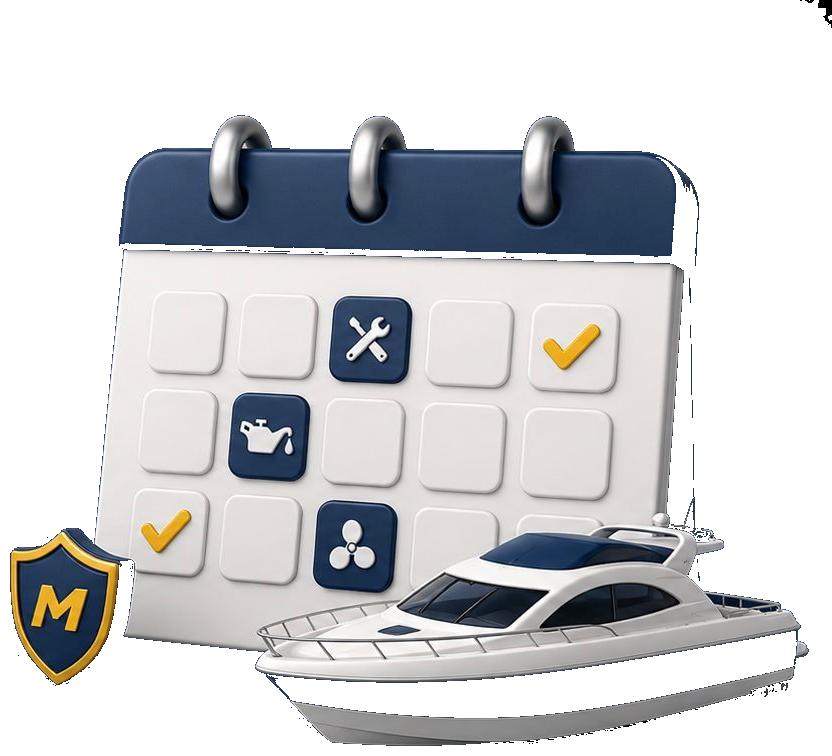
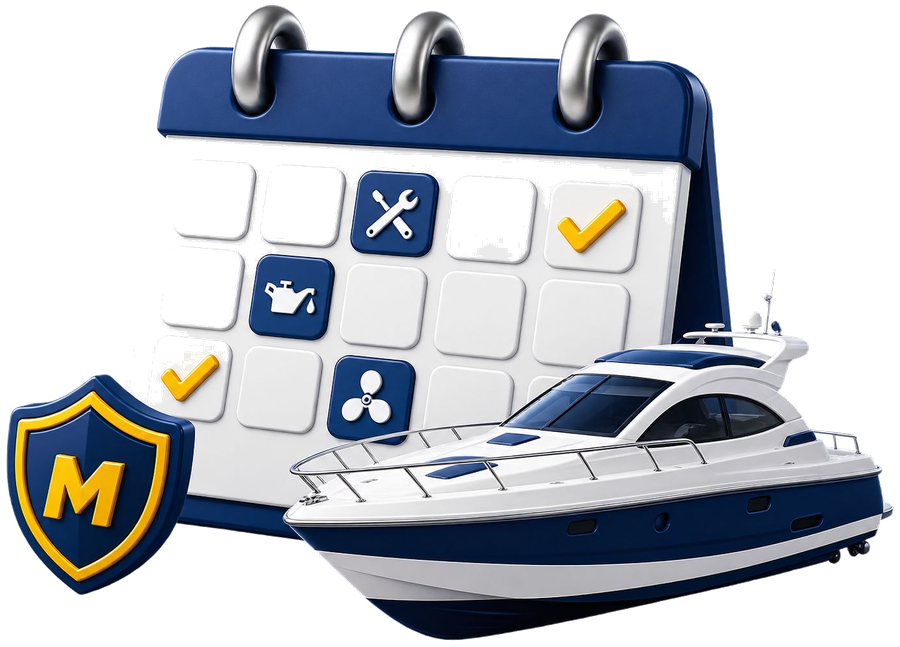
Bakım takvimi kartını 1. sıraya al, üstüne canlı tik işaretleme animasyonu ekle
Yeni gönderilen (temiz, şeffaf kesilmiş) takvim+tekne+kalkan görseli
kullanıldı; kampanya kartları sırası artık Bakım Takvimi ile başlıyor.
Takvimin üst sırasındaki 3 boş hücreye sırayla (staggered) yeşil tik
işaretleri "işleniyor" gibi beliriyor, bir süre ekranda kalıp birlikte
sönüyor ve döngü tekrar başlıyor — takvime iş kaydedilmesini simüle
ediyor.

Claude-Session: https://claude.ai/code/session_01XStbwL6Vr4wVqGDLyMLQ5F

diff --git a/src/screens/home/HomeScreen.tsx b/src/screens/home/HomeScreen.tsx
@@ -48,6 +48,9 @@ const QUICK_ACTION_ICON = {
  * kaynak gorsele gore oranli (0-1) konum/boyut. */
 type PromoGlowSpec = { relX: number; relY: number; relSize: number; colorA: string; colorB: string };
 
+/** Bos takvim hucrelerine sirayla "isaretlenen" yesil tik noktalari. */
+type PromoChecklistSpec = { relX: number; relY: number; relSize: number };
+
 type PromoBanner = {
   key: string;
   titleLine1: string;
@@ -57,6 +60,7 @@ type PromoBanner = {
   source: ImageSourcePropType;
   aspect: number;
   glow: PromoGlowSpec;
+  checklist?: readonly PromoChecklistSpec[];
   onPress: () => void;
 };
 
@@ -85,8 +89,15 @@ const PROMO_IMAGE = {
   },
   calendar: {
     source: require("../../../assets/promo-icons/promo-calendar.png"),
-    aspect: 832 / 756,
-    glow: { relX: 0.077, relY: 0.792, relSize: 0.16, ...GOLD_GLOW },
+    aspect: 900 / 647,
+    glow: { relX: 0.115, relY: 0.71, relSize: 0.18, ...GOLD_GLOW },
+    // Takvimin ust sirasindaki 3 bos hucreye sirayla "isleniyor" gibi
+    // beliren yesil tikler.
+    checklist: [
+      { relX: 0.201, relY: 0.339, relSize: 0.06 },
+      { relX: 0.314, relY: 0.339, relSize: 0.06 },
+      { relX: 0.54, relY: 0.339, relSize: 0.06 },
+    ],
   },
 } as const;
 
@@ -147,6 +158,15 @@ export function HomeScreen({ navigation }: Props) {
 
   const promoBanners: PromoBanner[] = [
     {
+      key: "promo-calendar",
+      titleLine1: "Bakım takvimini",
+      titleLine2: "oluştur",
+      accentColor: theme.accent,
+      subtitle: "Bakım tarihlerini unutma, tek yerden takip et.",
+      ...PROMO_IMAGE.calendar,
+      onPress: () => (boat ? navigation.navigate("BoatDetail", { boatId: boat.id }) : navigation.navigate("AddBoat")),
+    },
+    {
       key: "promo-support",
       titleLine1: "İhtiyacın olduğunda",
       titleLine2: "MİÇO yanında",
@@ -181,15 +201,6 @@ export function HomeScreen({ navigation }: Props) {
       subtitle: "Gelen teklifleri incele, en uygun ustayı seç.",
       ...PROMO_IMAGE.offers,
       onPress: () => navigation.navigate("ServiceRequests"),
-    },
-    {
-      key: "promo-calendar",
-      titleLine1: "Bakım takvimini",
-      titleLine2: "oluştur",
-      accentColor: theme.accent,
-      subtitle: "Bakım tarihlerini unutma, tek yerden takip et.",
-      ...PROMO_IMAGE.calendar,
-      onPress: () => (boat ? navigation.navigate("BoatDetail", { boatId: boat.id }) : navigation.navigate("AddBoat")),
     },
   ];
 
@@ -435,7 +446,7 @@ function PromoBannerCarousel({ banners, theme }: { banners: PromoBanner[]; theme
                 {banner.subtitle}
               </Text>
             </View>
-            <PromoImage source={banner.source} aspect={banner.aspect} glow={banner.glow} />
+            <PromoImage source={banner.source} aspect={banner.aspect} glow={banner.glow} checklist={banner.checklist} />
           </Animated.View>
         </LinearGradient>
       </Touchable>
@@ -465,10 +476,23 @@ function containFit(containerW: number, containerH: number, sourceAspect: number
 }
 
 /** Gorsel + hafif nefes alan zoom + tek bir odak noktasinda animasyonlu isik rozeti. */
-function PromoImage({ source, aspect, glow }: { source: ImageSourcePropType; aspect: number; glow: PromoGlowSpec }) {
+const CHECKLIST_GREEN = "#1FA669";
+
+function PromoImage({
+  source,
+  aspect,
+  glow,
+  checklist,
+}: {
+  source: ImageSourcePropType;
+  aspect: number;
+  glow: PromoGlowSpec;
+  checklist?: readonly PromoChecklistSpec[];
+}) {
   const [containerSize, setContainerSize] = useState<{ w: number; h: number } | null>(null);
   const pulse = useRef(new Animated.Value(0)).current;
   const colorPhase = useRef(new Animated.Value(0)).current;
+  const checklistAnims = useRef((checklist ?? []).map(() => new Animated.Value(0))).current;
 
   useEffect(() => {
     const zoomLoop = Animated.loop(
@@ -490,6 +514,38 @@ function PromoImage({ source, aspect, glow }: { source: ImageSourcePropType; asp
       colorLoop.stop();
     };
   }, [pulse, colorPhase]);
+
+  // Bos takvim hucrelerine sirayla "isleniyor" gibi beliren yesil tikler:
+  // bir bir pop-in, bir sure ekranda kal, birlikte sonup basa dön.
+  useEffect(() => {
+    if (checklistAnims.length === 0) return;
+    let cancelled = false;
+    let timeoutId: ReturnType<typeof setTimeout>;
+
+    const cycle = () => {
+      if (cancelled) return;
+      checklistAnims.forEach((v) => v.setValue(0));
+      Animated.stagger(
+        420,
+        checklistAnims.map((v) => Animated.spring(v, { toValue: 1, friction: 5, tension: 60, useNativeDriver: true }))
+      ).start(() => {
+        if (cancelled) return;
+        timeoutId = setTimeout(() => {
+          if (cancelled) return;
+          Animated.parallel(checklistAnims.map((v) => Animated.timing(v, { toValue: 0, duration: 300, useNativeDriver: true }))).start(() => {
+            if (cancelled) return;
+            timeoutId = setTimeout(cycle, 500);
+          });
+        }, 1600);
+      });
+    };
+
+    cycle();
+    return () => {
+      cancelled = true;
+      clearTimeout(timeoutId);
+    };
+  }, [checklistAnims]);
 
   const imageScale = pulse.interpolate({ inputRange: [0, 1], outputRange: [1, 1.05] });
   const glowColor = colorPhase.interpolate({ inputRange: [0, 1], outputRange: [glow.colorA, glow.colorB] });
@@ -518,6 +574,33 @@ function PromoImage({ source, aspect, glow }: { source: ImageSourcePropType; asp
           }}
         />
       ) : null}
+      {fit
+        ? checklist?.map((c, i) => {
+            const size = c.relSize * fit.w;
+            const v = checklistAnims[i];
+            return (
+              <Animated.View
+                key={i}
+                pointerEvents="none"
+                style={{
+                  position: "absolute",
+                  left: fit.offsetX + c.relX * fit.w - size / 2,
+                  top: fit.offsetY + c.relY * fit.h - size / 2,
+                  width: size,
+                  height: size,
+                  borderRadius: size / 2,
+                  backgroundColor: CHECKLIST_GREEN,
+                  alignItems: "center",
+                  justifyContent: "center",
+                  opacity: v,
+                  transform: [{ scale: v }],
+                }}
+              >
+                <Ionicons name="checkmark" size={size * 0.62} color="#FFFFFF" />
+              </Animated.View>
+            );
+          })
+        : null}
     </View>
   );
 }
